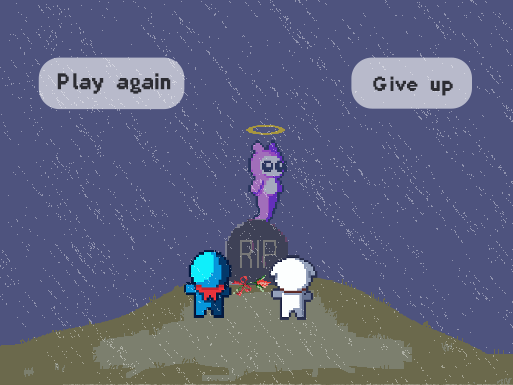
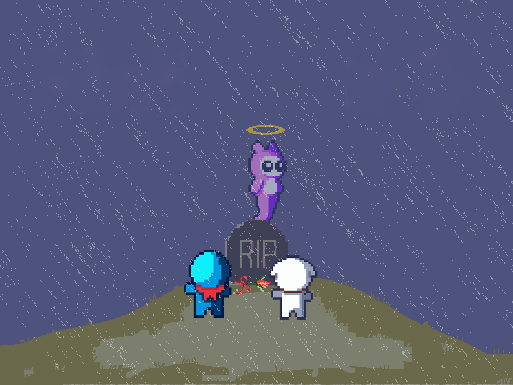
settings i lose screen be? suposo nose aaa

Changed region(s): [[0.0624, 0.1247, 0.3743, 0.3117], [0.6862, 0.1247, 0.9357, 0.3117]]

diff --git a/Pinky_Adventures/Game/Source/LoseScene.cpp b/Pinky_Adventures/Game/Source/LoseScene.cpp
@@ -77,11 +77,11 @@ bool LoseScene::Update(float dt)
 	//if (app->input->GetKey(SDL_SCANCODE_F6) == KEY_DOWN)
 	//	app->LoadGameRequest();
 	
-	if (app->input->GetKey(SDL_SCANCODE_F2) == KEY_DOWN)
-		app->fade->FadingToBlack(this, (Module*)app->iScene, 5);
-
 	if (app->input->GetKey(SDL_SCANCODE_F1) == KEY_DOWN)
 		app->fade->FadingToBlack(this, (Module*)app->scene, 5);
+
+	if (app->input->GetKey(SDL_SCANCODE_F2) == KEY_DOWN)
+		app->fade->FadingToBlack(this, (Module*)app->iScene, 5);
 
 	if (musLose == false)
 	{
@@ -94,56 +94,6 @@ bool LoseScene::Update(float dt)
 	app->render->camera.y = 0;
 	app->render->DrawTexture(loseTexture, 0, 0);
 
-
-	ListItem<GuiButton*>* b = listButtons.start;
-
-	// Retry
-	if (b->data->state == GuiControlState::PRESSED)
-	{
-		app->fade->FadingToBlack(this, (Module*)app->scene, 90);
-	}
-
-	b = b->next;
-
-	// Give up
-	if (b->data->state == GuiControlState::PRESSED)
-	{
-		app->fade->FadingToBlack(this, (Module*)app->iScene, 90);
-	}
-
-	b = b->next;
-
-	// Ranks	
-	if (b->data->state == GuiControlState::PRESSED)
-	{
-		app->fade->FadingToBlack(this, (Module*)app->leadScene, 90);
-	}
-
-
-
-
-	//// retry
-	//if (retry == true)
-	//	app->render->DrawTexture(button1, 32, 53);
-	//else
-	//	app->render->DrawTexture(button2, 344, 53);
-
-	//if (app->input->GetKey(SDL_SCANCODE_RETURN) == KEY_DOWN && retry == true)
-	//{
-	//	app->audio->PauseMusic();
-	//	app->fade->FadingToBlack(this, (Module*)app->scene, 45);
-	//}
-	//// non retry
-	//if (app->input->GetKey(SDL_SCANCODE_RETURN) == KEY_DOWN && retry == false)
-	//{
-	//	app->audio->PauseMusic();
-	//	app->fade->FadingToBlack(this, (Module*)app->iScene, 90);
-	//}
-
-	//if (app->input->GetKey(SDL_SCANCODE_A) == KEY_DOWN || app->input->GetKey(SDL_SCANCODE_D) == KEY_DOWN ||
-	//	app->input->GetKey(SDL_SCANCODE_RIGHT) == KEY_DOWN || app->input->GetKey(SDL_SCANCODE_LEFT) == KEY_DOWN)
-	//	retry = !retry;
-
 	return true;
 }
 
@@ -155,7 +105,6 @@ bool LoseScene::PostUpdate()
 	if(app->input->GetKey(SDL_SCANCODE_ESCAPE) == KEY_DOWN)
 		ret = false;
 
-	//app->render->DrawTexture(LoseTexture, -65, 0);
 	app->guiManager->Draw();
 
 	return ret;
@@ -172,6 +121,31 @@ bool LoseScene::CleanUp()
 	app->tex->UnLoad(button2);
 
 	listButtons.Clear();
+	app->guiManager->CleanUp();
+
+	return true;
+}
+
+bool LoseScene::OnGuiMouseClickEvent(GuiControl* control)
+{
+	LOG("Event by %d ", control->id);
+
+	switch (control->id)
+	{
+	case 1:
+		LOG("Button Retry click");
+		app->fade->FadingToBlack(this, (Module*)app->scene, 90);
+		
+		break;
+	case 2:
+		LOG("Button Give up click");
+		app->fade->FadingToBlack(this, (Module*)app->iScene, 90);
+		break;
+	case 3:
+		LOG("Button Leaderboard click");
+		app->fade->FadingToBlack(this, (Module*)app->leadScene, 90);
+		break;
+	}
 
 	return true;
 }

diff --git a/Pinky_Adventures/Game/Source/GuiSlider.cpp b/Pinky_Adventures/Game/Source/GuiSlider.cpp
@@ -30,7 +30,7 @@ bool GuiSlider::Update(float dt)
 		if (mouseX >= bounds.x && mouseX <= bounds.x + bounds.w &&
 			mouseY >= bounds.y && mouseY <= bounds.y + bounds.h) {
 
-			//state = GuiControlState::FOCUSED;
+			state = GuiControlState::FOCUSED;
 
 			if (previousState != state)
 			{
@@ -61,51 +61,48 @@ bool GuiSlider::Draw(Render* render)
 {
 	SDL_Rect rect = { 0, 0, 0, 0 };
 
-	//if (SliderType == SliderType::LONG)
-	//{
-	//	// Draw the right Slider depending on state
-	//	switch (state)
-	//	{
 
-	//	case GuiControlState::DISABLED:
-	//	{
-	//		rect = { 277, 0, 90, 27 };
-	//		render->DrawTexture(SliderTex, bounds.x, bounds.y, &rect);
+		// Draw the right Slider depending on state
+	switch (state)
+	{
 
-	//	} break;
+	case GuiControlState::DISABLED:
+	{
+		rect = { 277, 0, 90, 27 };
+		render->DrawTexture(SliderTex, bounds.x, bounds.y, &rect);
 
-	//	case GuiControlState::NORMAL:
-	//	{
-	//		rect = { 0, 0, 90, 27 };
-	//		render->DrawTexture(SliderTex, bounds.x, bounds.y, &rect);
+	} break;
 
-	//	} break;
+	case GuiControlState::NORMAL:
+	{
+		rect = { 0, 0, 90, 27 };
+		render->DrawTexture(SliderTex, bounds.x, bounds.y, &rect);
+
+	} break;
 
 
-	//	case GuiControlState::FOCUSED:
-	//	{
-	//		rect = { 90, 0, 90, 27 };
-	//		render->DrawTexture(SliderTex, bounds.x, bounds.y, &rect);
+	case GuiControlState::FOCUSED:
+	{
+		rect = { 90, 0, 90, 27 };
+		render->DrawTexture(SliderTex, bounds.x, bounds.y, &rect);
 
-	//	} break;
-	//	case GuiControlState::PRESSED:
-	//	{
-	//		rect = { 180, 0, 97, 27 };
-	//		render->DrawTexture(SliderTex, bounds.x, bounds.y, &rect);
-	//		rect = { 180, 0, 120, 40 };
+	} break;
+	case GuiControlState::PRESSED:
+	{
+		rect = { 180, 0, 97, 27 };
+		render->DrawTexture(SliderTex, bounds.x, bounds.y, &rect);
+		rect = { 180, 0, 120, 40 };
 
-	//	} break;
+	} break;
 
-	//	case GuiControlState::SELECTED: //render->DrawRectangle(bounds, 0, 255, 0, 255);
-	//		break;
+	case GuiControlState::SELECTED: //render->DrawRectangle(bounds, 0, 255, 0, 255);
+		break;
 
-	//	default:
-	//		break;
-	//	}
-	//	
-	//	offsetX = 20;	offsetY = 3;
-	//}
-	//
+	default:
+		break;
+	}
+	
+
 	//if (SliderType == SliderType::SMALL)
 	//{
 	//	// Draw the right Slider depending on state

diff --git a/Pinky_Adventures/Game/Source/IntroScene.cpp b/Pinky_Adventures/Game/Source/IntroScene.cpp
@@ -48,7 +48,6 @@ bool IntroScene::Start()
 	app->win->SetTitle(title.GetString());
 
 	bgTexture = app->tex->Load(bgPath);
-	//settingsTexture = app->tex->Load(settingsPath);
 
 	app->audio->PlayMusic(musicIntro, 0);
 	/*loaded = false;*/
@@ -88,11 +87,11 @@ bool IntroScene::Update(float dt)
 		listButtons.start->next->data->state = GuiControlState::NORMAL;
 	}
 
-	/*if (app->input->GetKey(SDL_SCANCODE_F6) == KEY_DOWN)
-	{
-		app->fade->FadingToBlack(this, (Module*)app->scene, 90);
-		loaded = true;
-	}*/
+	//if (app->input->GetKey(SDL_SCANCODE_F6) == KEY_DOWN)
+	//{
+	//	listButtons.start->next->data->state = GuiControlState::NORMAL;
+	//	loaded = true;
+	//}
 
 
 	/*if (app->input->GetKey(SDL_SCANCODE_RETURN) == KEY_DOWN)
@@ -158,7 +157,11 @@ bool IntroScene::OnGuiMouseClickEvent(GuiControl* control)
 		break;
 	case 3:
 		LOG("Button settings click");
-		pSettings->settings = true;
+		pSettings->settings = !pSettings->settings;
+		if (!pSettings->settings)
+		{
+			pSettings->CloseSettings();
+		}
 		break;
 	case 4:
 		LOG("Button Credits click");
@@ -186,7 +189,6 @@ bool IntroScene::OnGuiMouseClickEvent(GuiControl* control)
 	case 9:
 		LOG("Checkbox Fullscreen click");
 		app->win->changeScreen = !app->win->changeScreen;
-
 		app->win->ResizeWin();
 		break;
 	case 10:

diff --git a/Pinky_Adventures/Game/Source/Scene.cpp b/Pinky_Adventures/Game/Source/Scene.cpp
@@ -378,6 +378,7 @@ bool Scene::CleanUp()
 	app->physics->Disable();
 	app->map->CleanUp();
 
+	app->guiManager->CleanUp();
 	return true;
 }
 
@@ -445,6 +446,11 @@ void Scene::Debug()
 	{
 		pause = !pause;
 		pSettings->settings = !pSettings->settings;
+		if (!pSettings->settings)
+		{
+			pSettings->CloseSettings();
+		}
+
 		LOG("PAUSE");
 	}
 
@@ -540,6 +546,7 @@ bool Scene::OnGuiMouseClickEvent(GuiControl* control)
 	{
 	case 1:
 		LOG("Button Close settings click");
+		pause = !pause;
 		pSettings->CloseSettings();
 		break;
 
@@ -554,7 +561,6 @@ bool Scene::OnGuiMouseClickEvent(GuiControl* control)
 	case 4:
 		LOG("Checkbox Fullscreen click");
 		app->win->changeScreen = !app->win->changeScreen;
-
 		app->win->ResizeWin();
 		break;
 	case 5:

diff --git a/Pinky_Adventures/Game/Source/IntroScene.h b/Pinky_Adventures/Game/Source/IntroScene.h
@@ -44,7 +44,7 @@ public:
 	// Called before quitting
 	bool CleanUp();
 
-	//void Settings();
+	// Settings
 	bool OnGuiMouseClickEvent(GuiControl* control);
 	bool OpenSettings();
 	bool CloseSettings();

diff --git a/Pinky_Adventures/Game/Source/LoseScene.h b/Pinky_Adventures/Game/Source/LoseScene.h
@@ -36,6 +36,8 @@ public:
 	// Called before quitting
 	bool CleanUp();
 
+	bool OnGuiMouseClickEvent(GuiControl* control);
+
 public:
 	Player* player;
 
